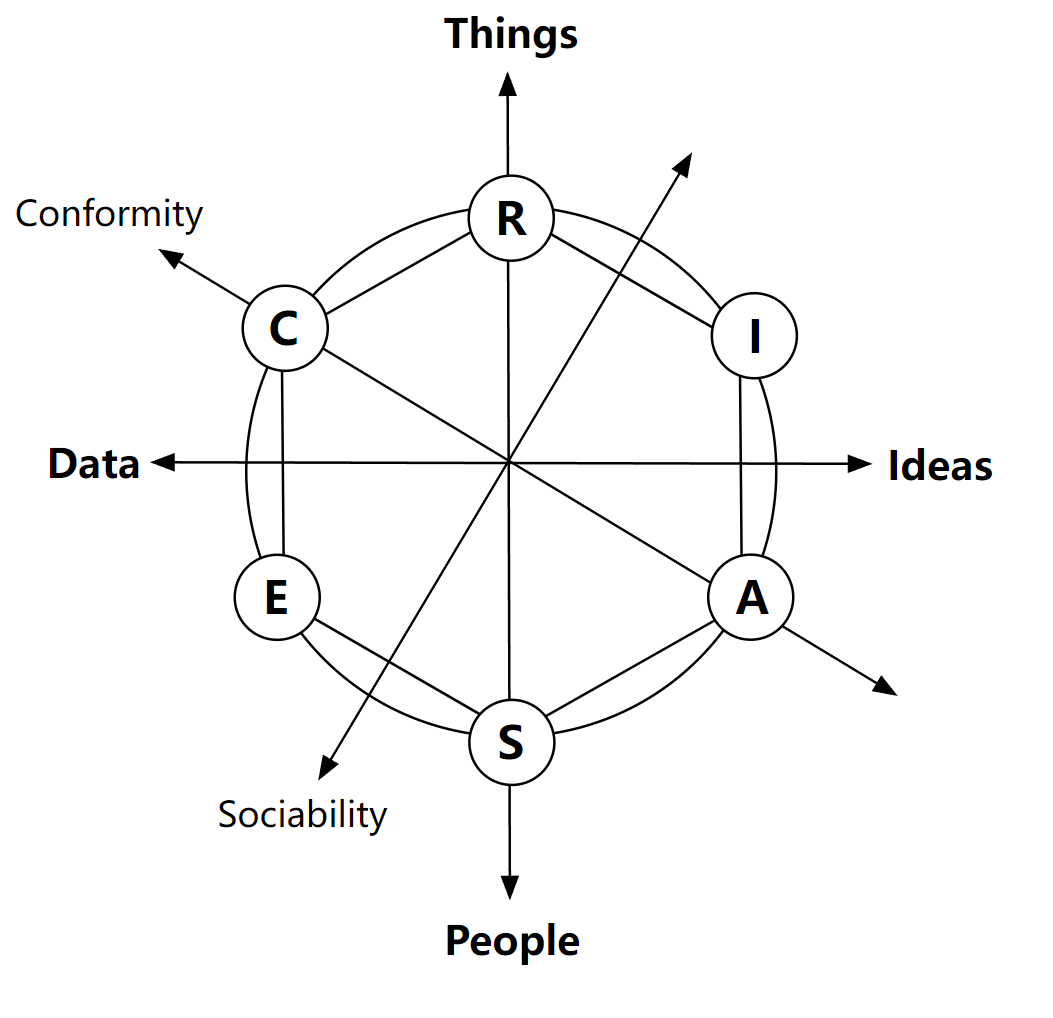
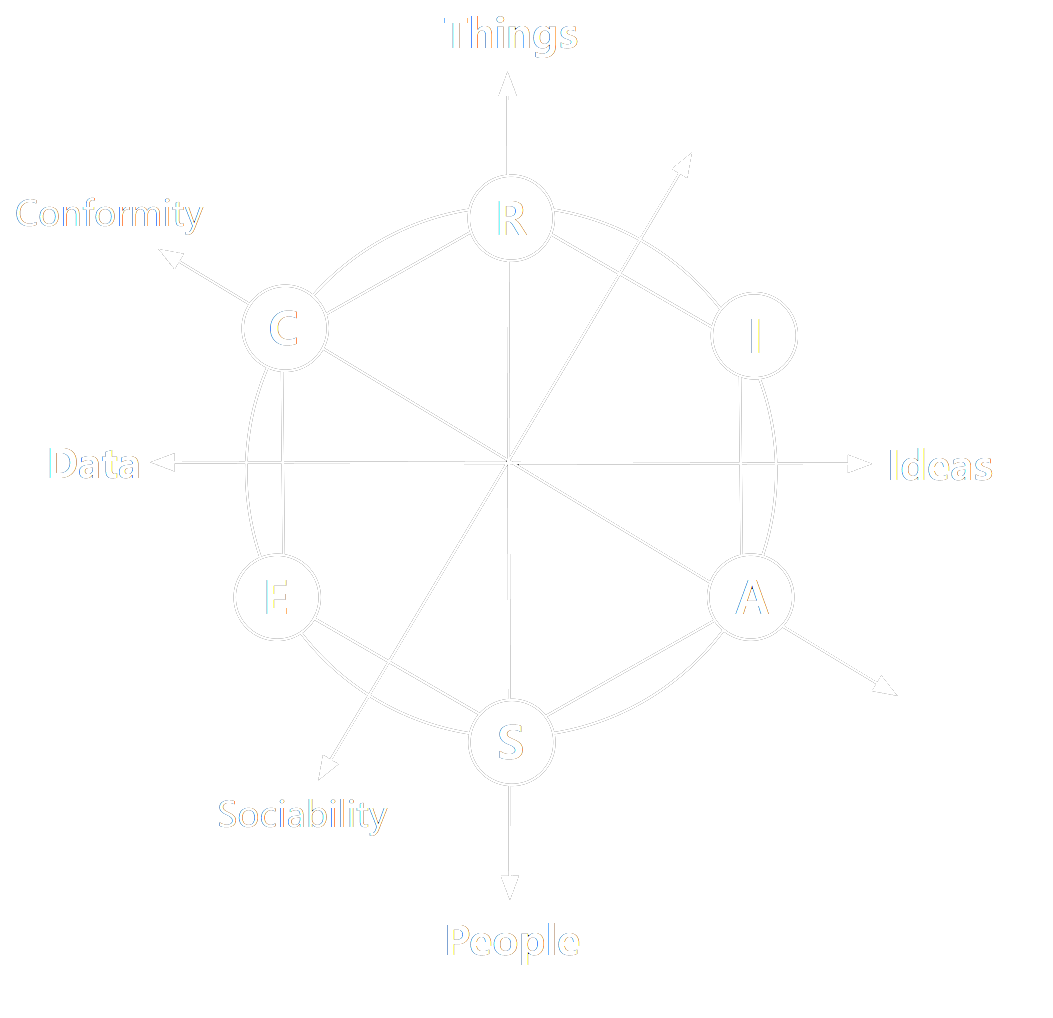
Update MBTI Dark Theme

diff --git a/index.html b/index.html
@@ -5,6 +5,7 @@
 		<meta charset="utf-8" />
 		<meta name="viewport" content="width=device-width, initial-scale=1, user-scalable=no" />
 		<link rel="stylesheet" href="assets/css/main.css" />
+		<link rel="stylesheet" href="assets/css/mainTextColor.css"/>
 	</head>
 	<body class="is-preload">
 
@@ -20,7 +21,7 @@
 			</nav>
 
 		<!-- Home -->
-			<article id="top" class="wrapper style1">
+			<article id="top" class="wrapper style1" style="background-color: #111111;">
 				<div class="container">
 					<div class="row">
 						<div class="col-4 col-5-large col-12-medium">
@@ -28,9 +29,9 @@
 						</div>
 						<div class="col-8 col-7-large col-12-medium">
 							<header>
-								<h1>Hi. I'm <strong>Vecter Fang</strong>.</h1>
+								<h1 style="color: #919191;"">Hi. I'm <strong style="color: #cacaca;">Vecter Fang</strong>.</h1>
 							</header>
-							<p>The person want to design <strong>Awesome Things</strong></p>
+							<p>The person want to design <strong style="color: #cacaca;">Awesome Things</strong></p>
 							<a href="#MoreD" class="button large scrolly">Get More info about Me!</a>
 						</div>
 					</div>
@@ -38,33 +39,33 @@
 			</article>
 
 		<!-- MoreD -->
-			<article id="MoreD" class="wrapper style2">
+			<article id="MoreD" class="wrapper style2" style="background-color: #111111;">
 				<div class="container">
 					<header>
-						<h2>Know the baisc info?</h2>
-						<p>I am <strong>Vecter Fang</strong>. A student in Purdue university. Learing <strong>MET</strong>(Mechanical Engineering Technology)</p>
+						<h2 style="color: #cacaca;">Know the baisc info?</h2>
+						<p>I am <strong style="color: #cacaca;">Vecter Fang</strong>. A student in Purdue university. Learing <strong style="color: #cacaca;">MET</strong>(Mechanical Engineering Technology)</p>
 					</header>
 					<div class="row aln-center">
 						<!-- Add more? -->
 						<div class="col-4 col-6-medium col-12-small">
 							<section class="box style1">
 								<span><img src="images/favpng_future.png" alt="" width="150"/></span>
-								<h3>The Idea of future production</h3>
-								<p>The future of production will be smart. Which main every things will <strong>Predict the Future</strong> and get <strong>better</strong> and <strong>fast</strong> over the time.</p>
+								<h3 class="H3Color">The Idea of future production</h3>
+								<p>The future of production will be smart. Which main every things will <strong class="StrongC">Predict the Future</strong> and get <strong class="StrongC">better</strong> and <strong class="StrongC">fast</strong> over the time.</p>
 							</section>
 						</div>
 						<div class="col-4 col-6-medium col-12-small">
 							<section class="box style1">
 								<span><img src="images/favpng_3d-printing-printer.png" alt="" width="150"/></span>
-								<h3>Things About 3D Printing</h3>
+								<h3 class="H3Color">Things About 3D Printing</h3>
 								<p>I play 3D printer since 2016. Then I try to bulid the 3D printer by using another 3D printer. </p>
-								<p>Also Thanks <a href="https://vorondesign.com/" target="_blank"><strong>Voron Community</strong></a> help me to approach this goal.</p>
+								<p>Also Thanks <a href="https://vorondesign.com/" target="_blank"><strong class="StrongC">Voron Community</strong></a> help me to approach this goal.</p>
 							</section>
 						</div>
 						<div class="col-4 col-6-medium col-12-small">
 							<section class="box style1">
 								<span><img src="images/favpng_partners-for-education-at-berea-college-middletown-school-student.png" alt="" width="150"/></span>
-								<h3>About Major Choice</h3>
+								<h3 class="H3Color">About Major Choice</h3>
 								<p>I Choice <a href="https://en.wikipedia.org/wiki/Mechanical_engineering_technology">MET</a> as my major. 
 									Mechanical Engineering Technology is the application of engineering principles and technological developments for the creation of useful products and production machinery.
 								</p>	
@@ -75,26 +76,26 @@
 			</article>
 
 		<!-- Project -->
-			<article id="Project" class="wrapper style2">
+			<article id="Project" class="wrapper style2" style="background-color: #111111;">
 				<div class="container">
 					<header>
-						<h2>Here’s some stuff I made recently.</h2>
+						<h2 class="H2Color">Here's some stuff I made recently.</h2>
 						<p></p>
 					</header>
 					<div class="row aln-center">
 						<div class="col-4 col-6-medium col-12-small">
 							<article class="box style2">
 								<a href="https://www.youtube.com/watch?v=kfEJJTiQWyQ" class="image featured" target="_blank"><img src="3DPD/img/14cd5befe752fe69b8d380afbd221d8ddb227ff9.png" alt="" /></a>
-								<h3><a href="https://www.youtube.com/watch?v=kfEJJTiQWyQ" target="_blank">Get More details about my voron 3D printer</a></h3>
-								<p>Printer serial request video on <strong>YouTube</strong></p>
+								<h3 class="H3Color"><a href="https://www.youtube.com/watch?v=kfEJJTiQWyQ" target="_blank">Get More details about my voron 3D printer</a></h3>
+								<p>Printer serial request video on <strong class="StrongC">YouTube</strong></p>
 							</article>
 						</div>
 
 						<div class="col-4 col-6-medium col-12-small">
 							<article class="box style2">
 								<a href="https://twitter.com/Neko_vecter" class="image featured" target="_blank"><img src="/images/829823c4a9cbe2aae99c45f962717476bdfaa0d4.jpg" alt="" /></a>
-								<h3><a href="https://twitter.com/Neko_vecter" target="_blank">Get More details about 3D render</a></h3>
-								<p>More 3D render on <strong>YouTube</strong></p>
+								<h3 class="StrongC"><a href="https://twitter.com/Neko_vecter" target="_blank">Get More details about 3D render</a></h3>
+								<p>More 3D render on <strong class="StrongC">YouTube</strong></p>
 							</article>
 						</div>
 
@@ -103,34 +104,34 @@
 				</div>
 			</article>
 
-			<article id="InventoryResults" class="wrapper style2">
+			<article id="InventoryResults" class="wrapper style2" style="background-color: #111111;">
 				<div class="container">
 					<header>
-						<h2>Inventory Results</h2>
+						<h2 class="H2Color">Inventory Results</h2>
 						<p></p>
 					</header>
 					<div class="row aln-center">
 						<div class="col-4 col-6-medium col-12-small">
 							<article class="box style1">
 								<a href="" class="image featured" target="_blank"><img src="images/804px-Holland_RIASEC_hexagon.svg.png" width="100" alt="" /></a>
-								<h3><a href="" target="_blank">SDS (Self-Directed Search)</a></h3>
-								<p>My <a href="https://en.wikipedia.org/wiki/Holland_Codes" target="_blank">Holland Codes</a> is <strong>R I A</strong></p>
+								<h3 class="H3Color"><a href="" target="_blank" >SDS (Self-Directed Search)</a></h3>
+								<p>My <a href="https://en.wikipedia.org/wiki/Holland_Codes" target="_blank">Holland Codes</a> is <strong class="StrongC">R I A</strong></p>
 							</article>
 						</div>
 
 						<div class="col-4 col-6-medium col-12-small">
 							<article class="box style2">
 								<a href="/images/MyersBriggsTypes.png" class="image featured" target="_blank"><img src="/images/MyersBriggsTypes.png" alt="" /></a>
-								<h3><a href="https://en.wikipedia.org/wiki/Myers%E2%80%93Briggs_Type_Indicator" target="_blank">MBTI (Myers Briggs Type Indicator)</a></h3>
-								<p>My MBTI is <strong>INTJ</strong></p>
-								<p>If you don't know what is MBTI. Get more details <a href="/images/MyersBriggsTypes.png" target="_blank">here.</a></p>
+								<h3 class="H3Color"><a href="/MBTI/MBTI.html">MBTI (Myers Briggs Type Indicator)</a></h3>
+								<p>My MBTI is <strong class="StrongC">INTJ</strong></p>
+								<p>If you don't know what is MBTI. Get more details <a href="/MBTI/MBTI.html">here.</a></p>
 							</article>
 						</div>
 					</div>
 				</div>
 			</article>
 		<!-- Contact -->
-			<article id="contact" class="wrapper style4">
+			<article id="contact" class="wrapper style4" style="background-color: #111111;">
 				<div class="container medium">
 					<header>
 						<h2>Want more details?</h2>

diff --git a/assets/css/main.css b/assets/css/main.css
@@ -1665,10 +1665,7 @@ input, select, textarea {
 	input[type="reset"],
 	button,
 	.button {
-		background-image: url("images/bg.png"), -moz-linear-gradient(top, rgba(0, 0, 0, 0), rgba(0, 0, 0, 0.2));
-		background-image: url("images/bg.png"), -webkit-linear-gradient(top, rgba(0, 0, 0, 0), rgba(0, 0, 0, 0.2));
-		background-image: url("images/bg.png"), -ms-linear-gradient(top, rgba(0, 0, 0, 0), rgba(0, 0, 0, 0.2));
-		background-image: url("images/bg.png"), linear-gradient(top, rgba(0, 0, 0, 0), rgba(0, 0, 0, 0.2));
+		
 		-moz-transition: background-color .2s ease-in-out;
 		-webkit-transition: background-color .2s ease-in-out;
 		-ms-transition: background-color .2s ease-in-out;
@@ -1683,10 +1680,10 @@ input, select, textarea {
 		outline: 0;
 		cursor: pointer;
 		border-radius: 8px;
-		text-shadow: -1px -1px 0.5px rgba(0, 0, 0, 0.5);
+
 		overflow: hidden;
-		box-shadow: inset 0px 0px 0px 1px rgba(0, 0, 0, 0.5), inset 0px 2px 1px 0px rgba(255, 255, 255, 0.75);
-		background-color: #43B3E0;
+		
+		background-color: #838383;
 		padding: 1em 2.35em 1em 2.35em;
 		font-size: 1.1em;
 		max-width: 24em;
@@ -1697,7 +1694,7 @@ input, select, textarea {
 		input[type="reset"]:hover,
 		button:hover,
 		.button:hover {
-			background-color: #43bff0;
+			background-color: #646464;
 			color: #fff !important;
 		}
 
@@ -1706,7 +1703,7 @@ input, select, textarea {
 		input[type="reset"]:active,
 		button:active,
 		.button:active {
-			background-color: #3BA8D3;
+			background-color: #686868;
 			top: 1px;
 		}
 
@@ -1796,17 +1793,11 @@ input, select, textarea {
 			}
 
 				ul.social li a:before {
-					background-image: url("images/bg.png"), -moz-linear-gradient(top, rgba(0, 0, 0, 0), rgba(0, 0, 0, 0.2));
-					background-image: url("images/bg.png"), -webkit-linear-gradient(top, rgba(0, 0, 0, 0), rgba(0, 0, 0, 0.2));
-					background-image: url("images/bg.png"), -ms-linear-gradient(top, rgba(0, 0, 0, 0), rgba(0, 0, 0, 0.2));
-					background-image: url("images/bg.png"), linear-gradient(top, rgba(0, 0, 0, 0), rgba(0, 0, 0, 0.2));
-					-moz-transition: background-color .2s ease-in-out;
 					-webkit-transition: background-color .2s ease-in-out;
 					-ms-transition: background-color .2s ease-in-out;
 					transition: background-color .2s ease-in-out;
 					background-color: #444;
 					border-radius: 6px;
-					box-shadow: inset 0px 0px 0px 1px #282828, inset 0px 2px 1px 0px rgba(255, 255, 255, 0.1);
 					color: #2E2E2E !important;
 					display: block;
 					font-size: 26px;
@@ -1815,7 +1806,6 @@ input, select, textarea {
 					text-align: center;
 					outline: 0;
 					overflow: hidden;
-					text-shadow: 1px 1px 0px rgba(255, 255, 255, 0.1);
 					width: 48px;
 				}
 
@@ -1911,7 +1901,7 @@ input, select, textarea {
 /* Box */
 
 	.box {
-		background: #fff;
+		background: #181818;
 		box-shadow: inset 0px 0px 0px 1px rgba(0, 0, 0, 0.15), 0px 2px 3px 0px rgba(0, 0, 0, 0.1);
 		text-align: center;
 		padding: 2em;
@@ -1986,8 +1976,7 @@ input, select, textarea {
 
 /* Wrappers */
 
-	.wrapper {
-		background-image: url("images/bg.png");
+	.wrapper {	
 		box-shadow: inset 0px 1px 0px 0px rgba(0, 0, 0, 0.05), inset 0px 2px 3px 0px rgba(0, 0, 0, 0.1);
 		padding: 8em 0 8em 0;
 		text-align: center;
@@ -2000,7 +1989,7 @@ input, select, textarea {
 
 		.wrapper.style2 {
 			background-color: #fafafa;
-			text-shadow: 1px 1px 0px #fff;
+
 		}
 
 		.wrapper.style3 {
@@ -2011,7 +2000,7 @@ input, select, textarea {
 		.wrapper.style4 {
 			background-color: #303030;
 			color: #999;
-			text-shadow: -1px -1px 0px #181818;
+			
 		}
 
 			.wrapper.style4 h1, .wrapper.style4 h2, .wrapper.style4 h3, .wrapper.style4 h4, .wrapper.style4 h5, .wrapper.style4 h6 {

diff --git a/MBTI/MBTI.html b/MBTI/MBTI.html
@@ -1,0 +1,77 @@
+<!DOCTYPE HTML>
+<html>
+	<head>
+		<title>Neko-vecter</title>
+		<meta charset="utf-8" />
+		<meta name="viewport" content="width=device-width, initial-scale=1, user-scalable=no" />
+		<link rel="stylesheet" href="/assets/css/main.css" />
+	</head>
+	<body class="is-preload">
+
+		<!-- Nav -->
+			<nav id="nav">
+				<ul class="container">
+					<li><a href="/index.html">Home</a></li>
+					<li><a href="#Top">MBTI</a></li>
+					<li><a href="#MoreD">What is MBTI</a></li>
+					<li><a href="#MyMBTI">My MBTI</a></li>
+					
+
+				</ul>
+			</nav>
+
+
+            <article id="Top" class="wrapper style1" style="background-color: #111111;">
+				<br><br><br><br>
+				<div class="container">
+					<div class="row aln-center">
+
+						<div class="col-8 col-7-large col-12-medium">
+							<header>
+								<h1 style="color: #f0f0f0;"><strong style="color: #cacaca;">Myers Briggs Type Indicator</strong></h1>
+							</header>
+							<p>Know more about <strong style="color: #c5c5c5;">MBTI</strong></p>
+						</div>
+					</div>
+				</div>
+				<br><br>
+			</article>
+
+
+            <article id="MoreD" class="wrapper style1" style="background-color: #111111;">
+				<div class="container">
+					<div class="row aln-center">
+
+						<div class="col-8 col-7-large col-12-medium">
+							<header>
+								<h1><strong style="color: #c5c5c5;">What is MBTI?</strong></h1>
+							</header>
+							<p>In personality typology, the Myers–Briggs Type Indicator (MBTI) is an introspective self-report questionnaire indicating differing 
+                                psychological preferences in how people perceive the world and make decisions.
+                            </p>
+							<br><br><br>
+						</div>
+
+						
+
+						<div id="MyMBTI">
+							<br>
+							<h1 style="text-align: center;"><strong style="color: #c5c5c5;">My MBTI Meaning</strong></h1>
+							<img src="img/INTJ.png" alt="mymbti" style="display: block; margin-left: auto; margin-right: auto;" width="1100" >
+						</div>
+					</div>
+				</div>
+			</article>
+
+			
+
+		<!-- Scripts -->
+			<script src="/assets/js/jquery.min.js"></script>
+			<script src="/assets/js/jquery.scrolly.min.js"></script>
+			<script src="/assets/js/browser.min.js"></script>
+			<script src="/assets/js/breakpoints.min.js"></script>
+			<script src="/assets/js/util.js"></script>
+			<script src="/assets/js/main.js"></script>
+
+	</body>
+</html>

diff --git a/assets/css/mainTextColor.css b/assets/css/mainTextColor.css
@@ -1,0 +1,12 @@
+.H1Color {
+    color: #cacaca;
+}
+.H2Color {
+    color: #cacaca;
+}
+.H3Color {
+    color: #cacaca;
+}
+.StrongC {
+    color: #cacaca;
+}
